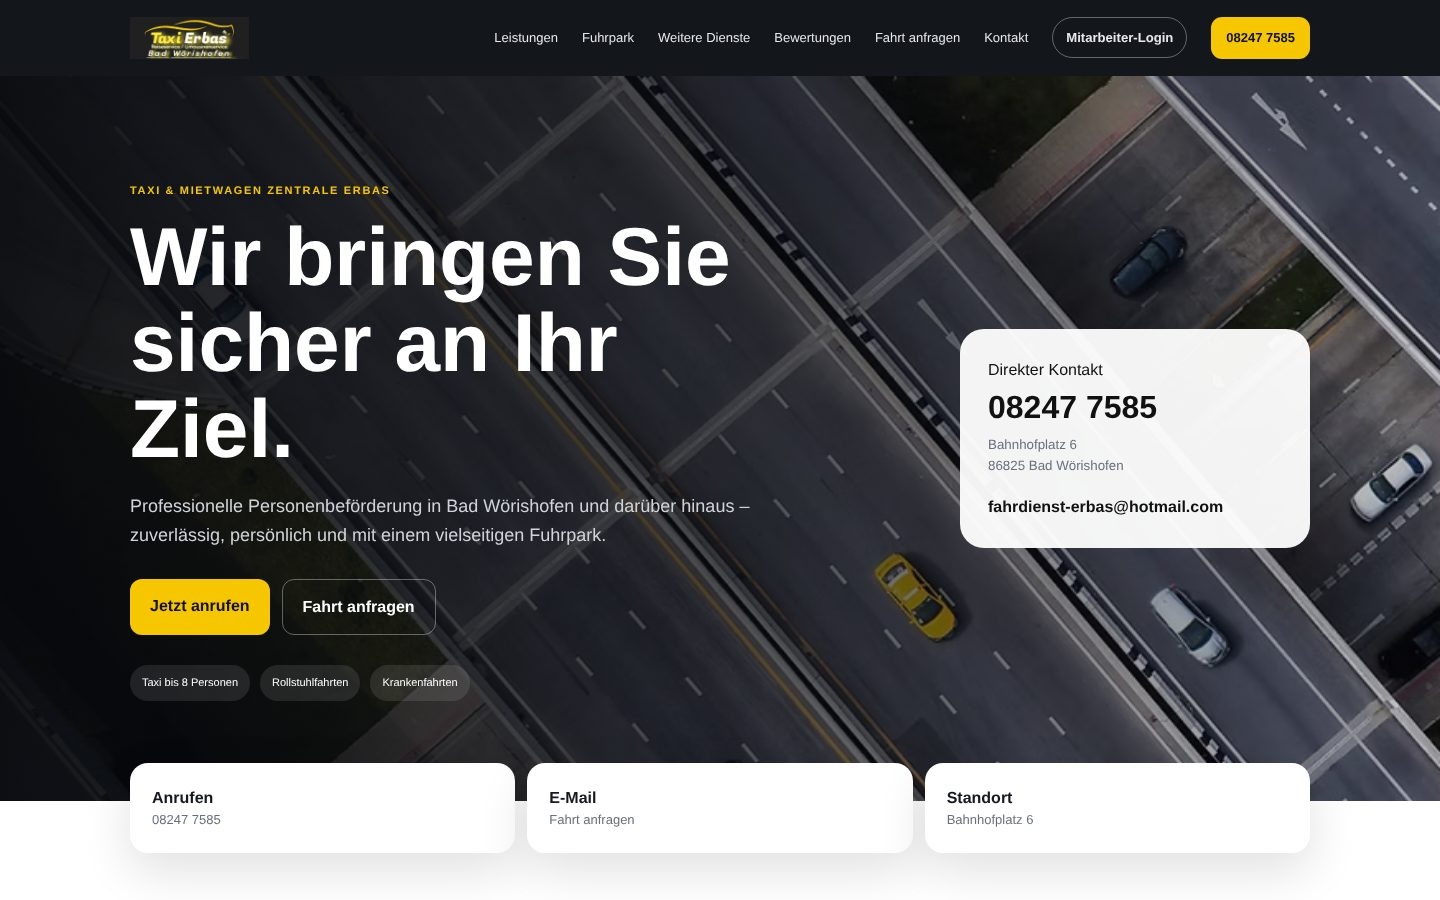
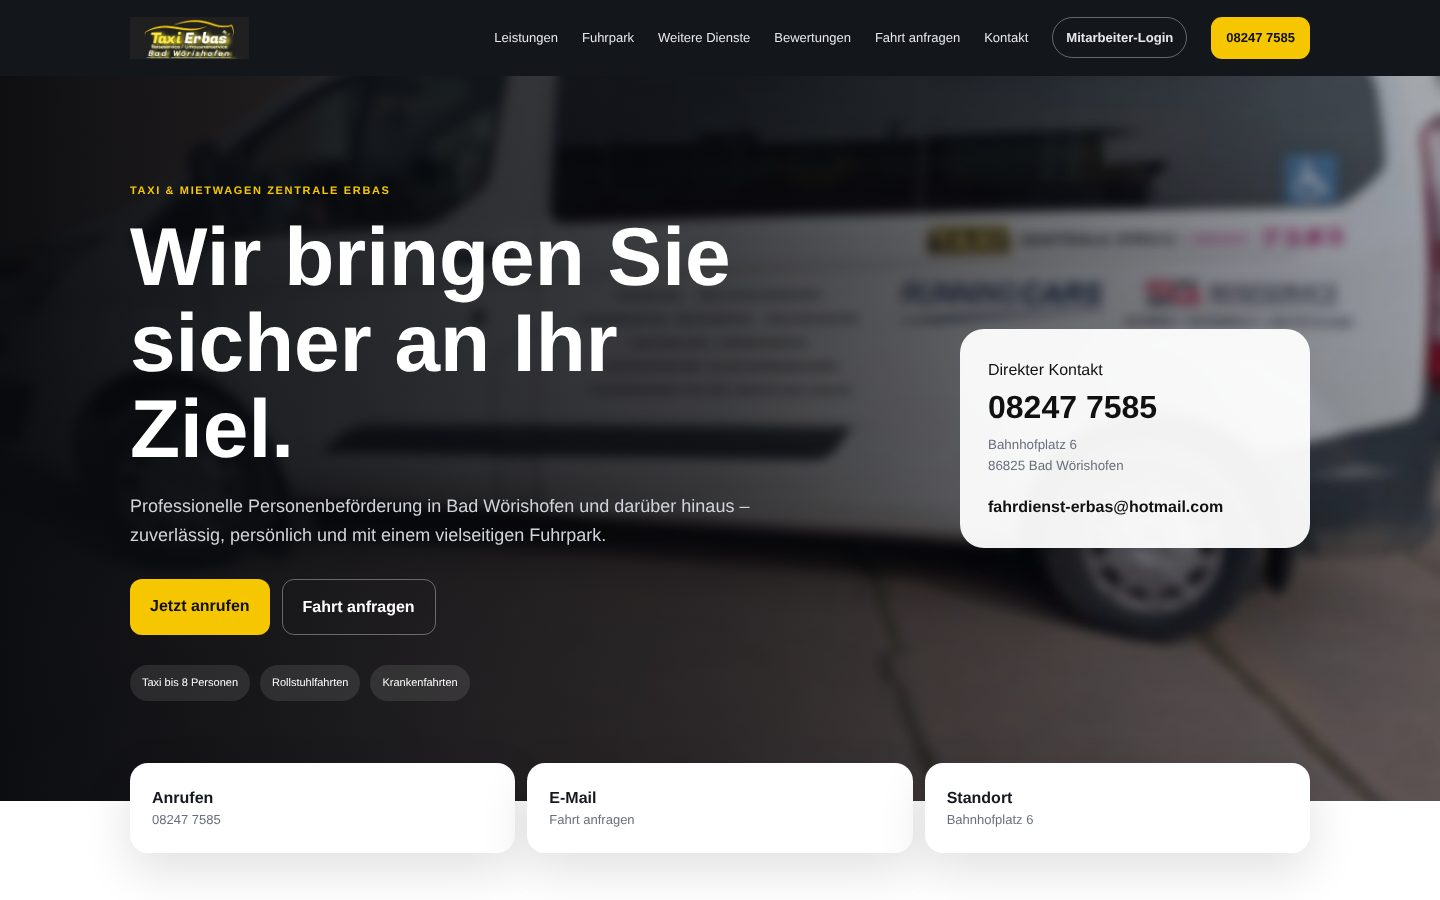
Referenz Taxi Erbas: Screenshots mit neuem Hero-Bild aktualisiert
Desktop (1440×900) und Smartphone (390×844) neu aufgenommen; Cache-Version
der Bilder erhöht.

Claude-Session: https://claude.ai/code/session_015TSYJmafLXTwd32Uq9dzs4

diff --git a/projekt-taxi-erbas.html b/projekt-taxi-erbas.html
@@ -1,3 +1,3 @@
 <!DOCTYPE html>
 
-<html lang="de"><head><meta charset="utf-8"/><meta content="width=device-width,initial-scale=1" name="viewport"/><title>Taxi Erbas — GRUND WEB</title><meta name="description" content="Referenzprojekt von GRUND WEB: moderner Webauftritt für Taxi Erbas in Bad Wörishofen mit Fahrtanfrage, Fuhrpark und internem Fahrer- und Bürobereich."/><link href="fonts/fonts.css" rel="stylesheet"/><link href="style.css?v=20261014-logo" rel="stylesheet"/><link rel="icon" type="image/png" href="grund-web-logo.png?v=20261014-logo"/></head><body><header class="subpage-header"><a class="logo" href="index.html"><img alt="" class="brand-mark" height="44" width="44" src="grund-web-logo.png"/><b>GRUND <em class="brand-word-web">WEB</em></b></a><a href="index.html#projekte">← Zurück zu den Projekten</a></header><main class="project-page project-taxi-page"><div class="k">02 / UNTERNEHMENSWEBSITE</div><h1>Taxi Erbas</h1><div class="intro"><p>Ein klarer, regionaler Unternehmensauftritt für Taxi Erbas. Im Mittelpunkt stehen schnelle Orientierung, gute mobile Bedienbarkeit und ein direkter Weg zur Kontaktaufnahme.</p><ul><li>Unternehmens- &amp; Leistungsdarstellung</li><li>Optimierung für mobile Nutzung</li><li>Klare Kontaktwege</li><li>Moderner regionaler Markenauftritt</li></ul></div><figure class="project-shot"><img class="desk" src="projekte/taxi-erbas-desktop.jpg?v=20261031" width="1440" height="900" alt="Startseite der Website Taxi Erbas auf dem Desktop" loading="eager" decoding="async"><img class="phone" src="projekte/taxi-erbas-mobile.jpg?v=20261031" width="390" height="844" alt="Startseite der Website Taxi Erbas auf dem Smartphone" loading="lazy" decoding="async"></figure><a class="live-project-link" href="https://jg139725.github.io/Taxierbas/index.html#start" rel="noopener noreferrer" target="_blank">Live-Website besuchen ↗</a><div class="next"><span>Du möchtest einen ähnlichen Auftritt?</span><a href="index.html#projektanfrage">Projekt anfragen →</a></div></main><footer class="subpage-footer"><a href="impressum.html">Impressum</a> · <a href="datenschutz.html">Datenschutz</a></footer></body></html>
+<html lang="de"><head><meta charset="utf-8"/><meta content="width=device-width,initial-scale=1" name="viewport"/><title>Taxi Erbas — GRUND WEB</title><meta name="description" content="Referenzprojekt von GRUND WEB: moderner Webauftritt für Taxi Erbas in Bad Wörishofen mit Fahrtanfrage, Fuhrpark und internem Fahrer- und Bürobereich."/><link href="fonts/fonts.css" rel="stylesheet"/><link href="style.css?v=20261014-logo" rel="stylesheet"/><link rel="icon" type="image/png" href="grund-web-logo.png?v=20261014-logo"/></head><body><header class="subpage-header"><a class="logo" href="index.html"><img alt="" class="brand-mark" height="44" width="44" src="grund-web-logo.png"/><b>GRUND <em class="brand-word-web">WEB</em></b></a><a href="index.html#projekte">← Zurück zu den Projekten</a></header><main class="project-page project-taxi-page"><div class="k">02 / UNTERNEHMENSWEBSITE</div><h1>Taxi Erbas</h1><div class="intro"><p>Ein klarer, regionaler Unternehmensauftritt für Taxi Erbas. Im Mittelpunkt stehen schnelle Orientierung, gute mobile Bedienbarkeit und ein direkter Weg zur Kontaktaufnahme.</p><ul><li>Unternehmens- &amp; Leistungsdarstellung</li><li>Optimierung für mobile Nutzung</li><li>Klare Kontaktwege</li><li>Moderner regionaler Markenauftritt</li></ul></div><figure class="project-shot"><img class="desk" src="projekte/taxi-erbas-desktop.jpg?v=20261031b" width="1440" height="900" alt="Startseite der Website Taxi Erbas auf dem Desktop" loading="eager" decoding="async"><img class="phone" src="projekte/taxi-erbas-mobile.jpg?v=20261031b" width="390" height="844" alt="Startseite der Website Taxi Erbas auf dem Smartphone" loading="lazy" decoding="async"></figure><a class="live-project-link" href="https://jg139725.github.io/Taxierbas/index.html#start" rel="noopener noreferrer" target="_blank">Live-Website besuchen ↗</a><div class="next"><span>Du möchtest einen ähnlichen Auftritt?</span><a href="index.html#projektanfrage">Projekt anfragen →</a></div></main><footer class="subpage-footer"><a href="impressum.html">Impressum</a> · <a href="datenschutz.html">Datenschutz</a></footer></body></html>
